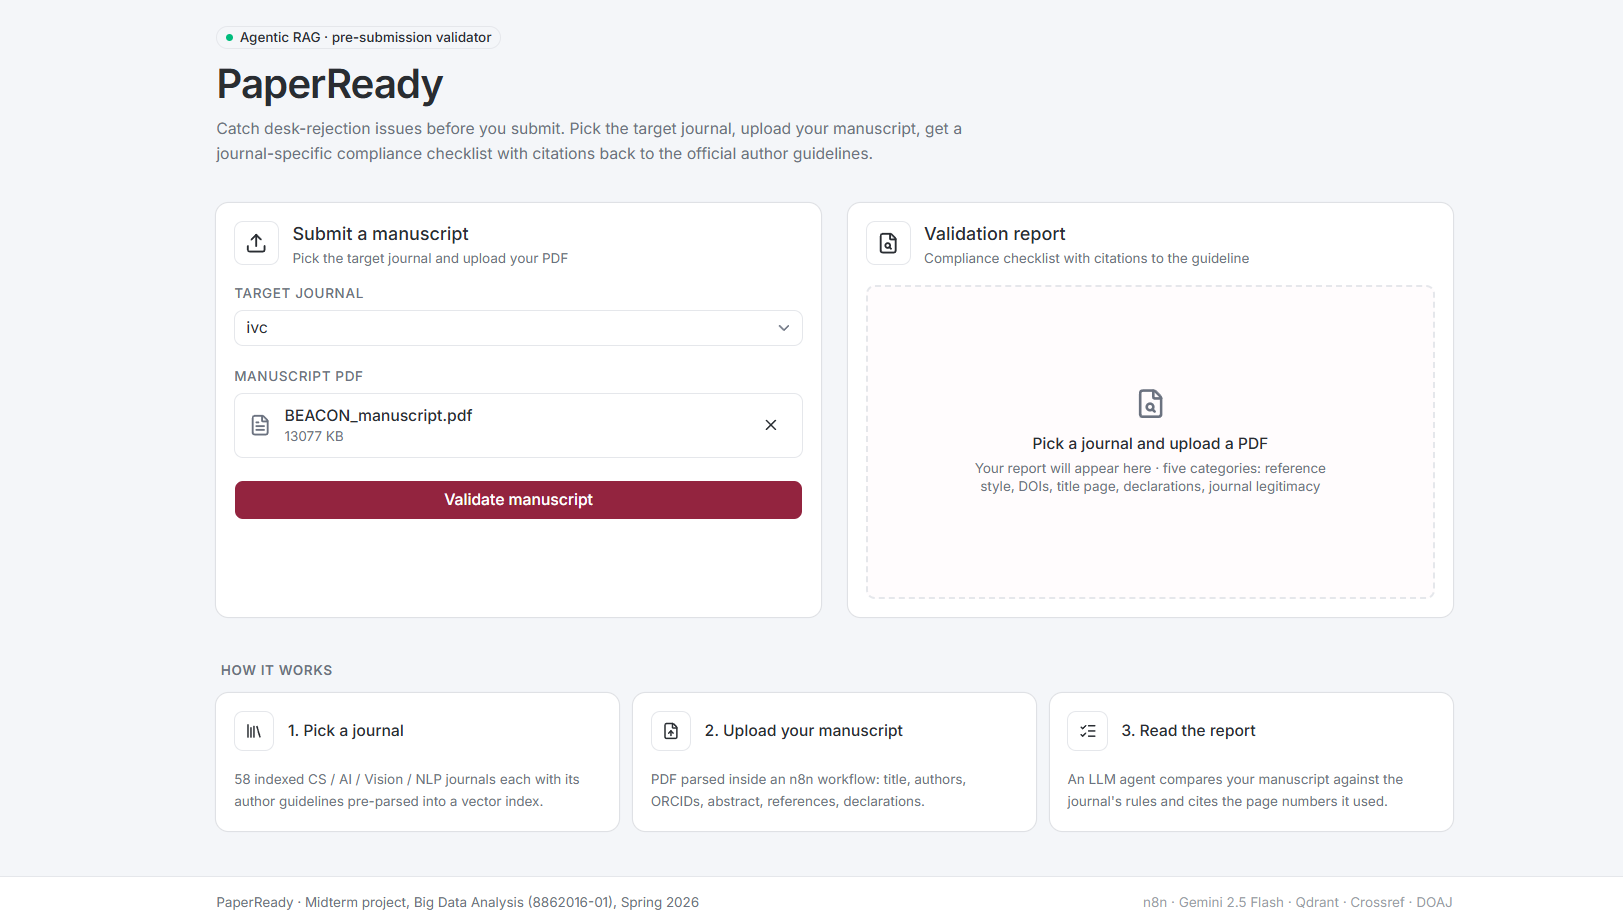
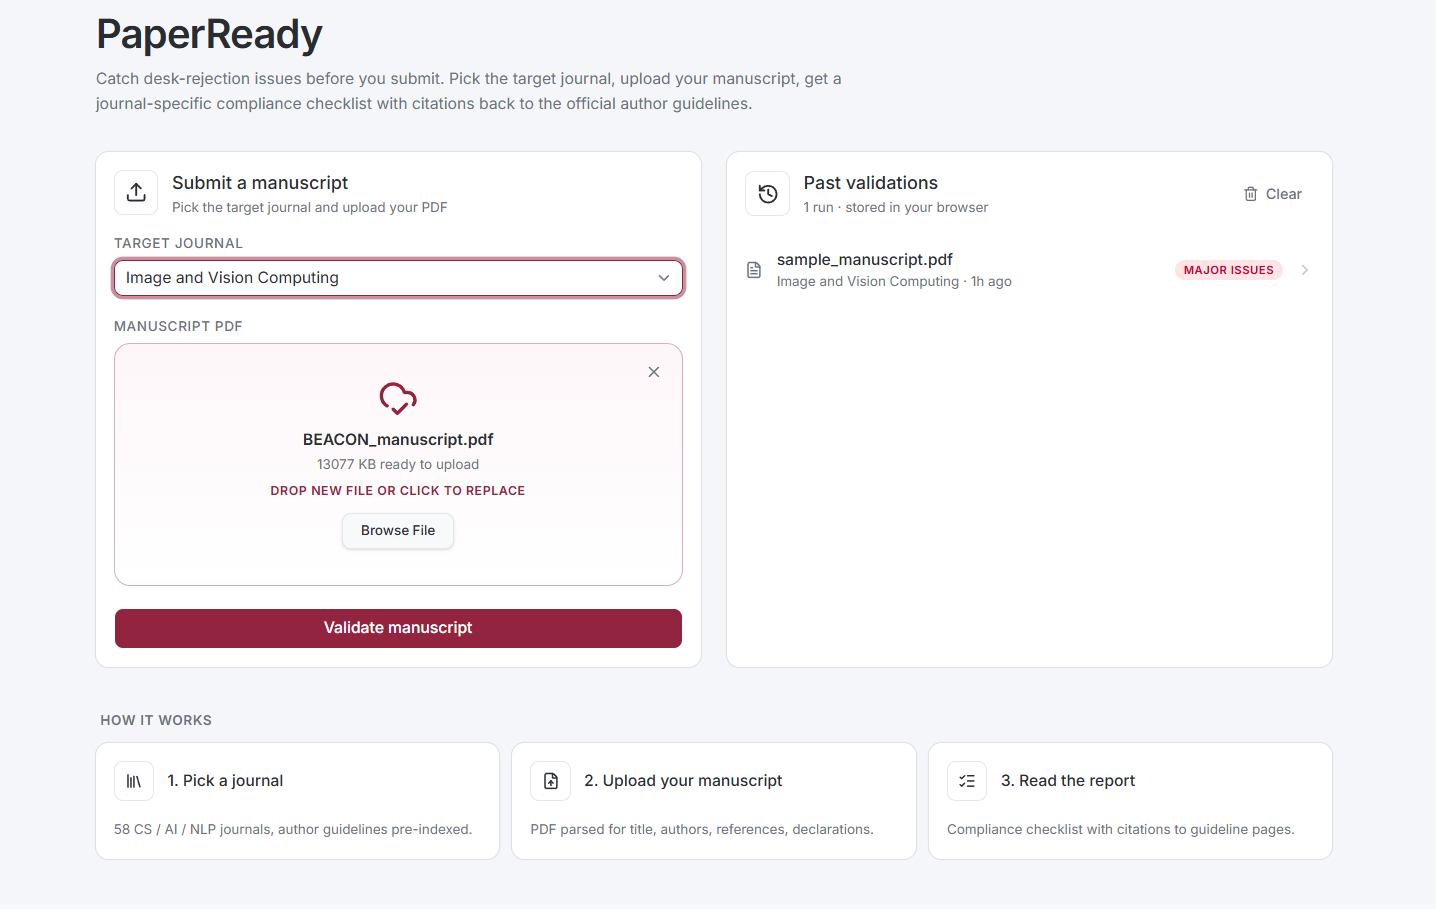
docs: side-by-side screenshots + step-by-step setup

diff --git a/README.md b/README.md
@@ -4,46 +4,80 @@
 
 Researchers preparing a paper must follow many journal-specific rules buried in long author-guideline PDFs: title page format, ORCID, reference style, figure captions, cover-letter format, conflict-of-interest statements, and more. Manual checking is slow and a common cause of desk rejection. PaperReady reads the target journal's author guidelines, the user's manuscript, and a curated rules database, then returns a compliance checklist, a missing-items report, a cover-letter draft, and reference compliance guidance.
 
-![PaperReady UI](docs/screenshots/paper-ready-ui.png)
+<p align="center">
+  <img src="docs/screenshots/paper-ready-ui.png" alt="PaperReady dashboard" width="49%" />
+  <img src="docs/screenshots/paper-ready-report-ui.png" alt="PaperReady validation report" width="49%" />
+</p>
 
 ## Running locally
 
+### What's already in the repo
+
+You don't need to source any data yourself. The repo ships with everything required for a first run:
+
+- `ingest/out/journal_metadata.csv` (58 curated journals)
+- `ingest/out/reference_style_rules.csv` (68 curated style rules)
+- `ingest/data/tpami_author_guide.pdf` and `ingest/data/ivc_author_guide.pdf` (the two guideline PDFs to embed)
+- `ingest/data/sample_manuscript.pdf` (a Vision Transformer paper to validate against)
+- `n8n/workflows/validate.json` (the agent workflow, ready to import)
+
 ### Prerequisites
 
-- **Docker Desktop** for Qdrant and n8n
-- **Node.js 20.9+** for the Next.js frontend
-- **uv** (Python 3.11+) for the sidecar and ingest script
-- A **Google AI Studio API key**. The free tier is enough for development: <https://aistudio.google.com/apikey>
-- A running **n8n instance** at `localhost:5678`. Import `n8n/workflows/validate.json`.
+1. **Docker Desktop** for Qdrant and n8n
+2. **Node.js 20.9+** for the Next.js frontend
+3. **uv** (Python 3.11+) for the sidecar and ingest script
+4. A **Google AI Studio API key** (free tier is enough): <https://aistudio.google.com/apikey>
+5. A local **n8n instance** running at `http://localhost:5678`
 
-### Setup
+### Step 1. Start Qdrant
 
 ```powershell
-# 1) Qdrant
 docker compose -f infra/docker-compose.yml up -d
+```
 
-# 2) Gemini API key
+### Step 2. Set your Gemini API key
+
+```powershell
 cp ingest/.env.example ingest/.env
-# Edit ingest/.env and set GOOGLE_API_KEY=AIza...
+```
 
-# 3) Place author-guideline PDFs into ingest/data/, then ingest each one
+Then edit `ingest/.env` and set `GOOGLE_API_KEY=AIza...`.
+
+### Step 3. Embed the guideline PDFs into Qdrant
+
+```powershell
 uv run --directory ingest python ingest_guideline.py --journal-id tpami --pdf data/tpami_author_guide.pdf
 uv run --directory ingest python ingest_guideline.py --journal-id ivc   --pdf data/ivc_author_guide.pdf
+```
 
-# 4) Start the Python sidecar
+This produces 235 chunks across the two journals. The script throttles itself for the Gemini free-tier embedding quota, so each PDF takes about 2 minutes.
+
+### Step 4. Start the Python sidecar
+
+```powershell
 uv run --directory sidecar uvicorn app.main:app --host 127.0.0.1 --port 8000
+```
 
-# 5) Start n8n at localhost:5678
-#    Import n8n/workflows/validate.json, create a "Google Gemini(PaLM) Api"
-#    credential using GOOGLE_API_KEY, attach it to the Gemini subnodes, and publish.
+Leave this running. It serves the CSV lookups at `http://127.0.0.1:8000`.
 
-# 6) Start the frontend
+### Step 5. Import and publish the n8n workflow
+
+In the n8n web UI at `http://localhost:5678`:
+
+1. **Import** `n8n/workflows/validate.json` (Workflows, then "Import from File").
+2. **Create a credential**: Credentials, then "New", then `Google Gemini(PaLM) Api`. Paste your `GOOGLE_API_KEY`.
+3. **Attach the credential** to both Gemini subnodes inside the workflow (the embedding node and the chat-model node on the Validator Agent).
+4. **Publish** the workflow (toggle the Active switch).
+
+### Step 6. Start the frontend
+
+```powershell
 cd web
 npm install
 npm run dev
 ```
 
-Open <http://localhost:3000>, pick a journal, upload a PDF, click **Validate**.
+Open <http://localhost:3000>, pick **TPAMI** in the dropdown, drag `ingest/data/sample_manuscript.pdf` onto the form, and click **Validate**. About 25 seconds later the report appears.
 
 ### Free-tier rate limits
 
